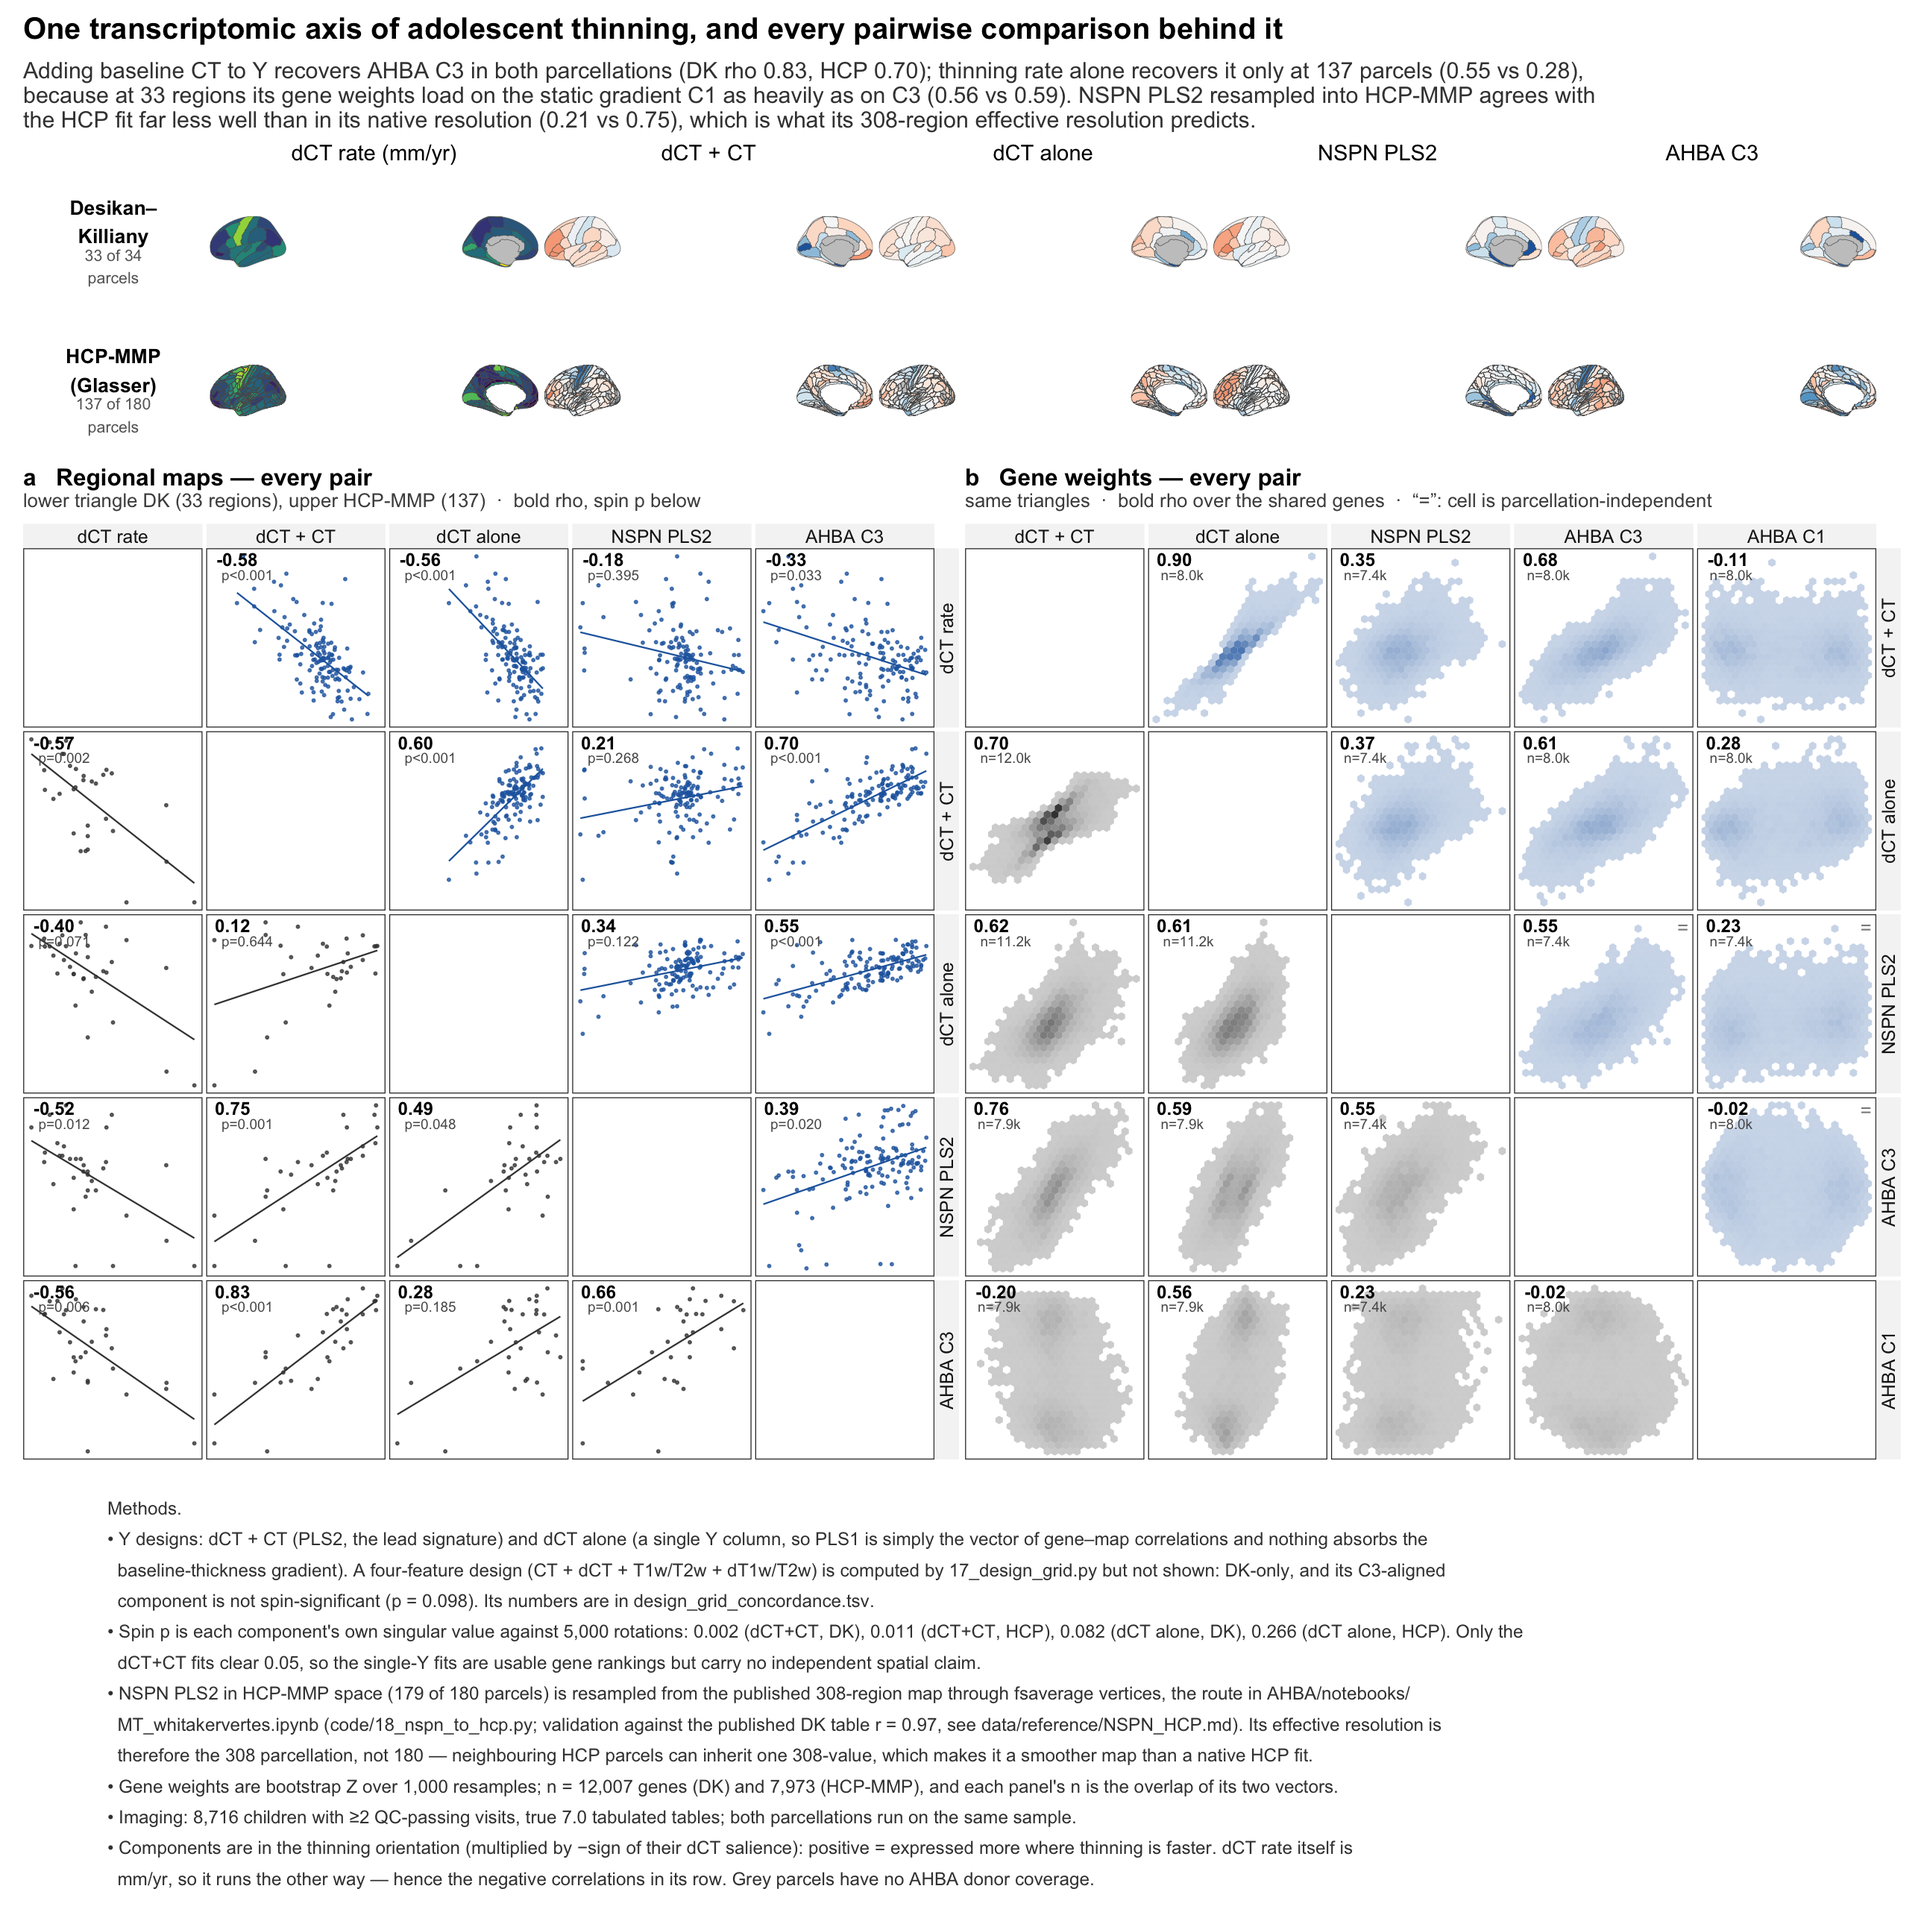
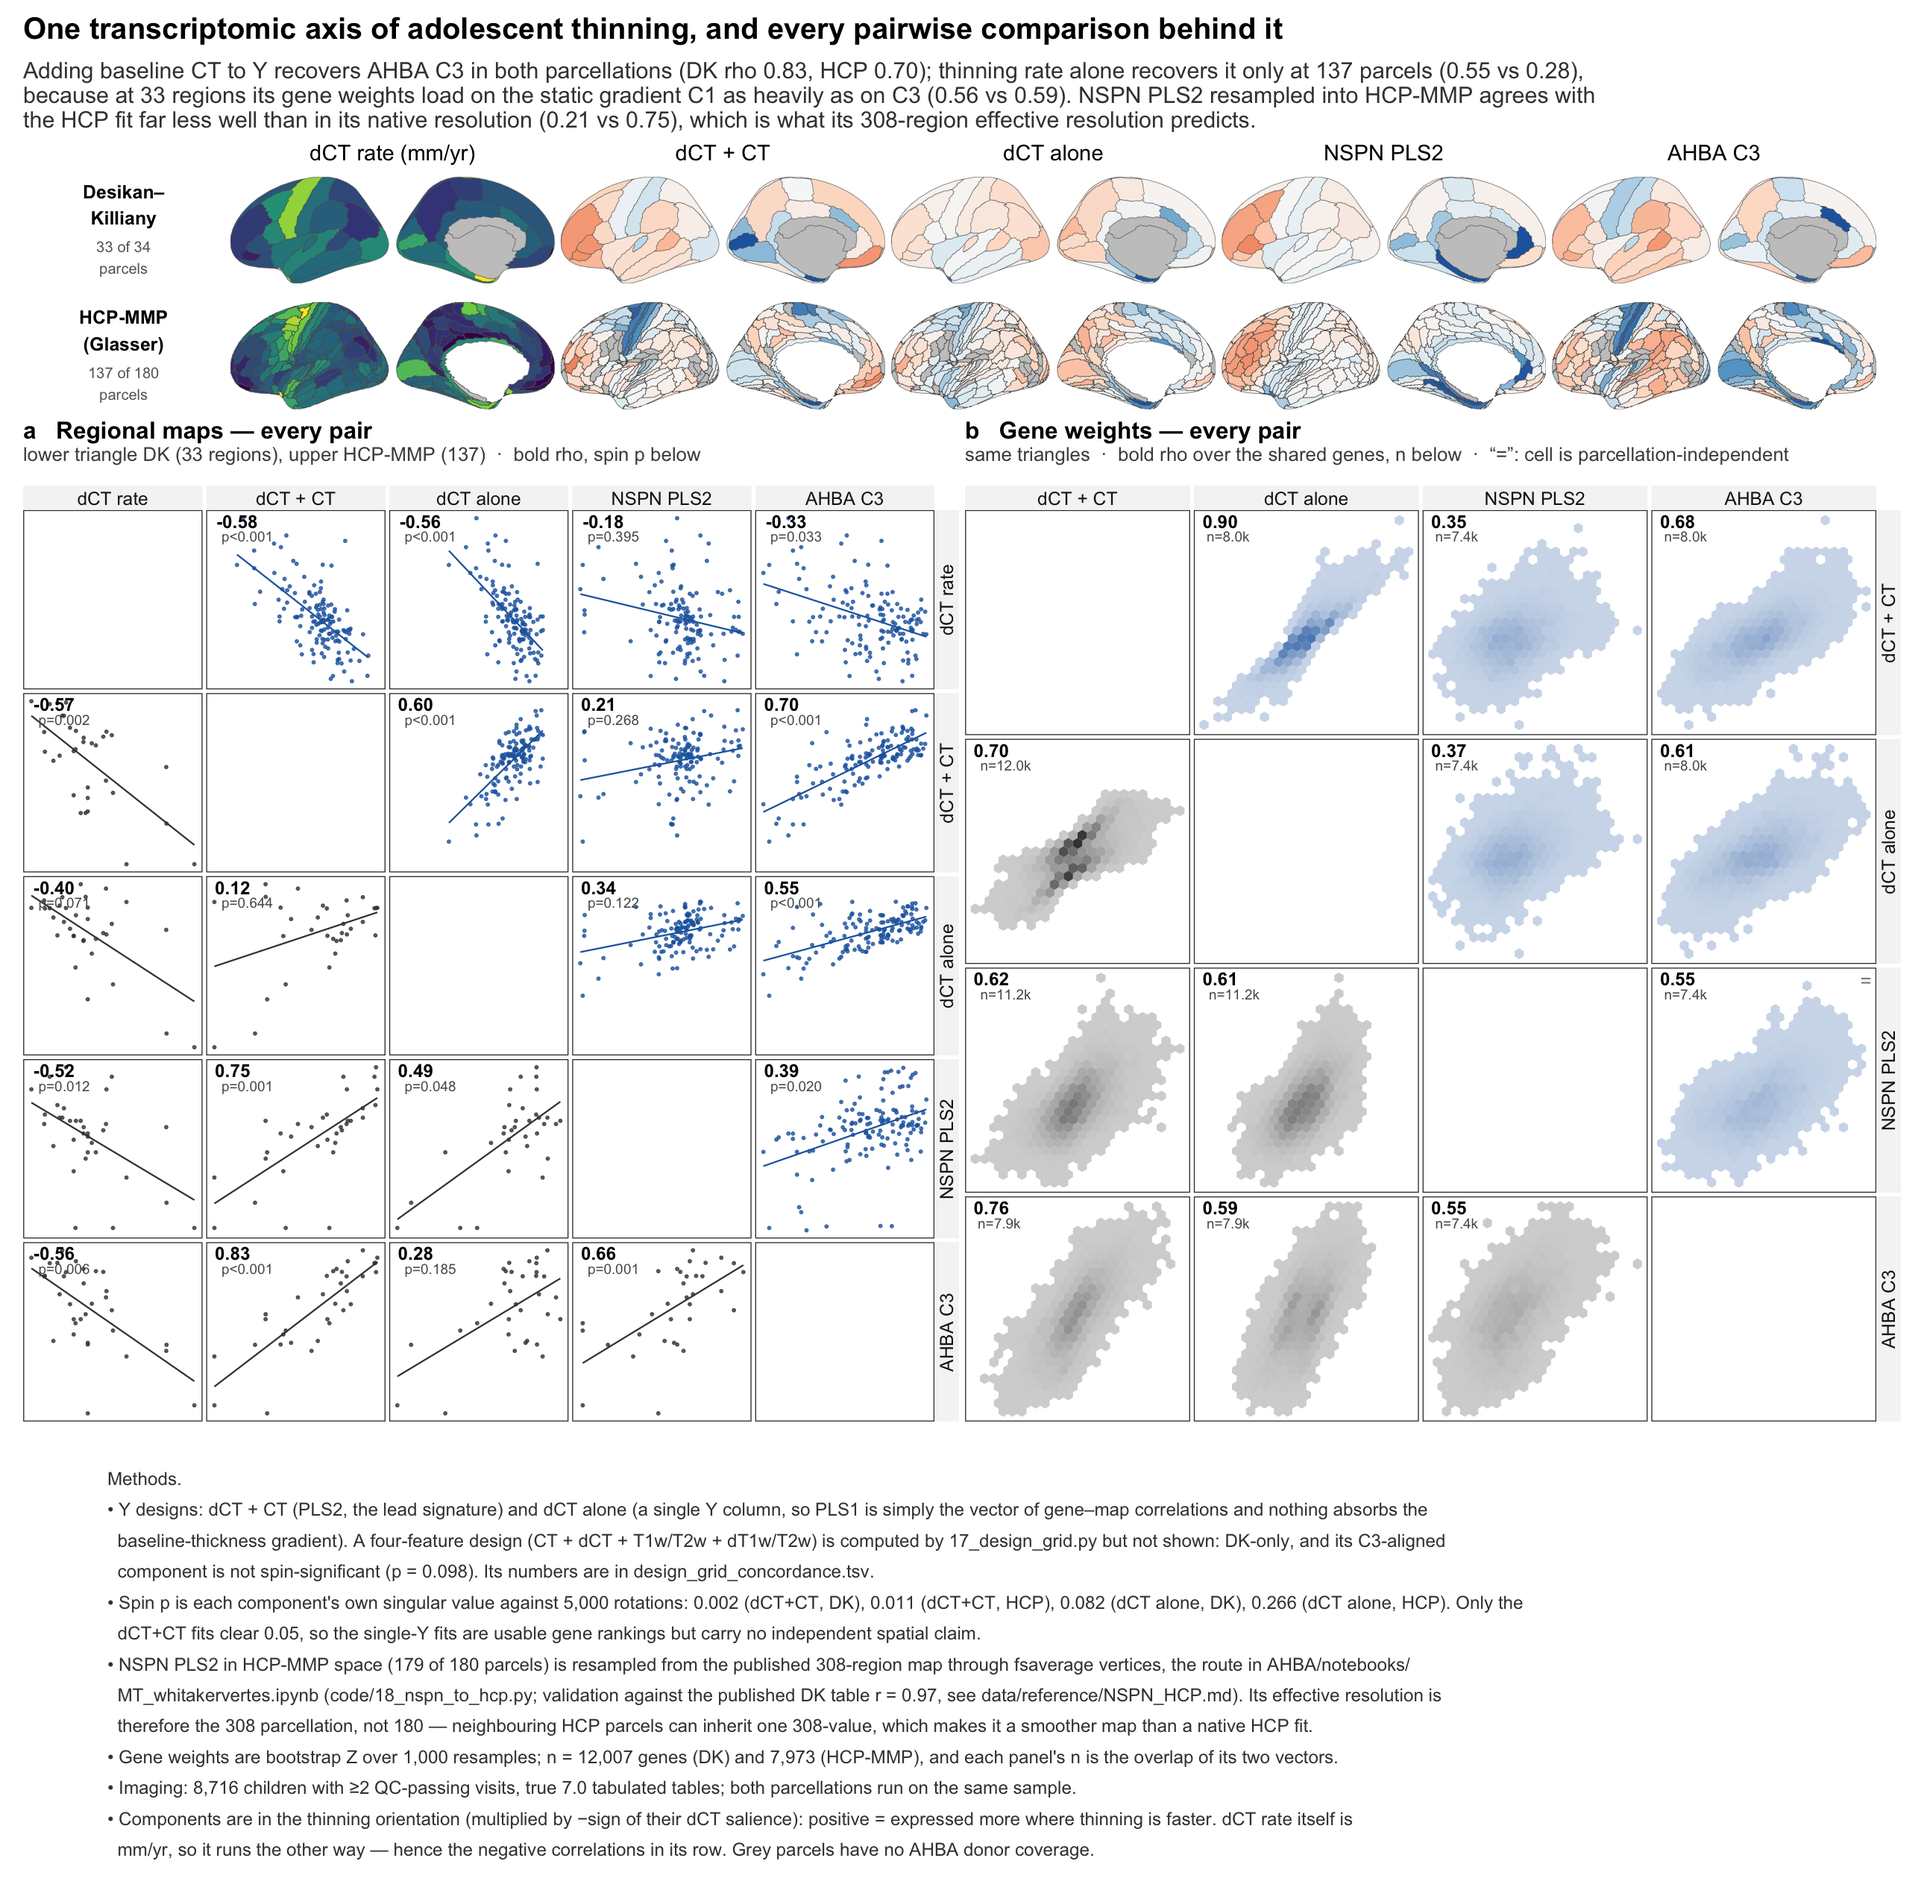
ahba_pls: brain maps drawn at full size; AHBA C1 out of the gene-weight matrix
The brain maps were drawing at 49% of their column width, measured: with
facet_wrap(~view) the two views share FIXED scales, so each facet spans the
union x range (DK lateral 747-1379 and medial 1411-2043 polygon units, union
1295 wide, a single view 632) and coord_fixed then shrank the height to match --
149 px of ink in a 255 px row slot. The views already occupy adjacent,
non-overlapping x ranges, so the facet is unnecessary: one coord_fixed panel
draws both side by side at full width. (scales = "free_x" is not an option --
facet_wrap rejects free scales under a fixed coord ratio.) Brain ink is now
150 px per row against 90 px before, filling the slot, and the row-label column
was widened to 0.62 so the larger maps no longer sit on top of the parcel counts.

Panel b drops AHBA C1: it is the static-gradient control, not one of the axes
being compared, so it does not belong as a matrix column. Its loadings are still
computed in design_grid_pairs_weights.tsv and still quoted in the figure
subtitle and README -- the dCT-alone C1 loading (0.56, against 0.59 for C3) is
the reason that design fails at 33 regions. The matrix is now 4x4 and its single
reference-vs-reference cell (NSPN vs C3) stays marked "=".

diff --git a/ahba_pls/README.md b/ahba_pls/README.md
@@ -428,10 +428,14 @@ Every NSPN pair weakens in HCP space while the pairs that do not involve NSPN st
 should look like, so read the weak HCP–NSPN cells as a resolution limit of the reference map rather
 than as disagreement between the cohorts — the like-for-like NSPN comparison is the DK one.
 
-**The figure is now two square pair matrices**, regional maps (panel a) and gene vectors (panel b),
-each with DK below the diagonal and HCP-MMP above it, ρ in bold inside every cell and the spin p
-under it. This is possible only because NSPN PLS2 exists in both parcellations; the three
-reference-vs-reference cells of panel b are parcellation-independent and marked "=".
+**The figure is now two square pair matrices**, regional maps (panel a, five variables) and gene
+vectors (panel b, four), each with DK below the diagonal and HCP-MMP above it, ρ in bold inside
+every cell and the spin p under it. This is possible only because NSPN PLS2 exists in both
+parcellations. AHBA C1 is not a column of the gene matrix — it is the static-gradient control
+rather than one of the axes being compared — but its loadings are still computed in
+`design_grid_pairs_weights.tsv` and quoted where they matter (the dCT-alone C1 loading is the
+reason that design fails at 33 regions). The NSPN-vs-C3 cell of panel b is
+parcellation-independent and marked "=".
 
 ### Gene bases — which comparisons are clean, and why
 
